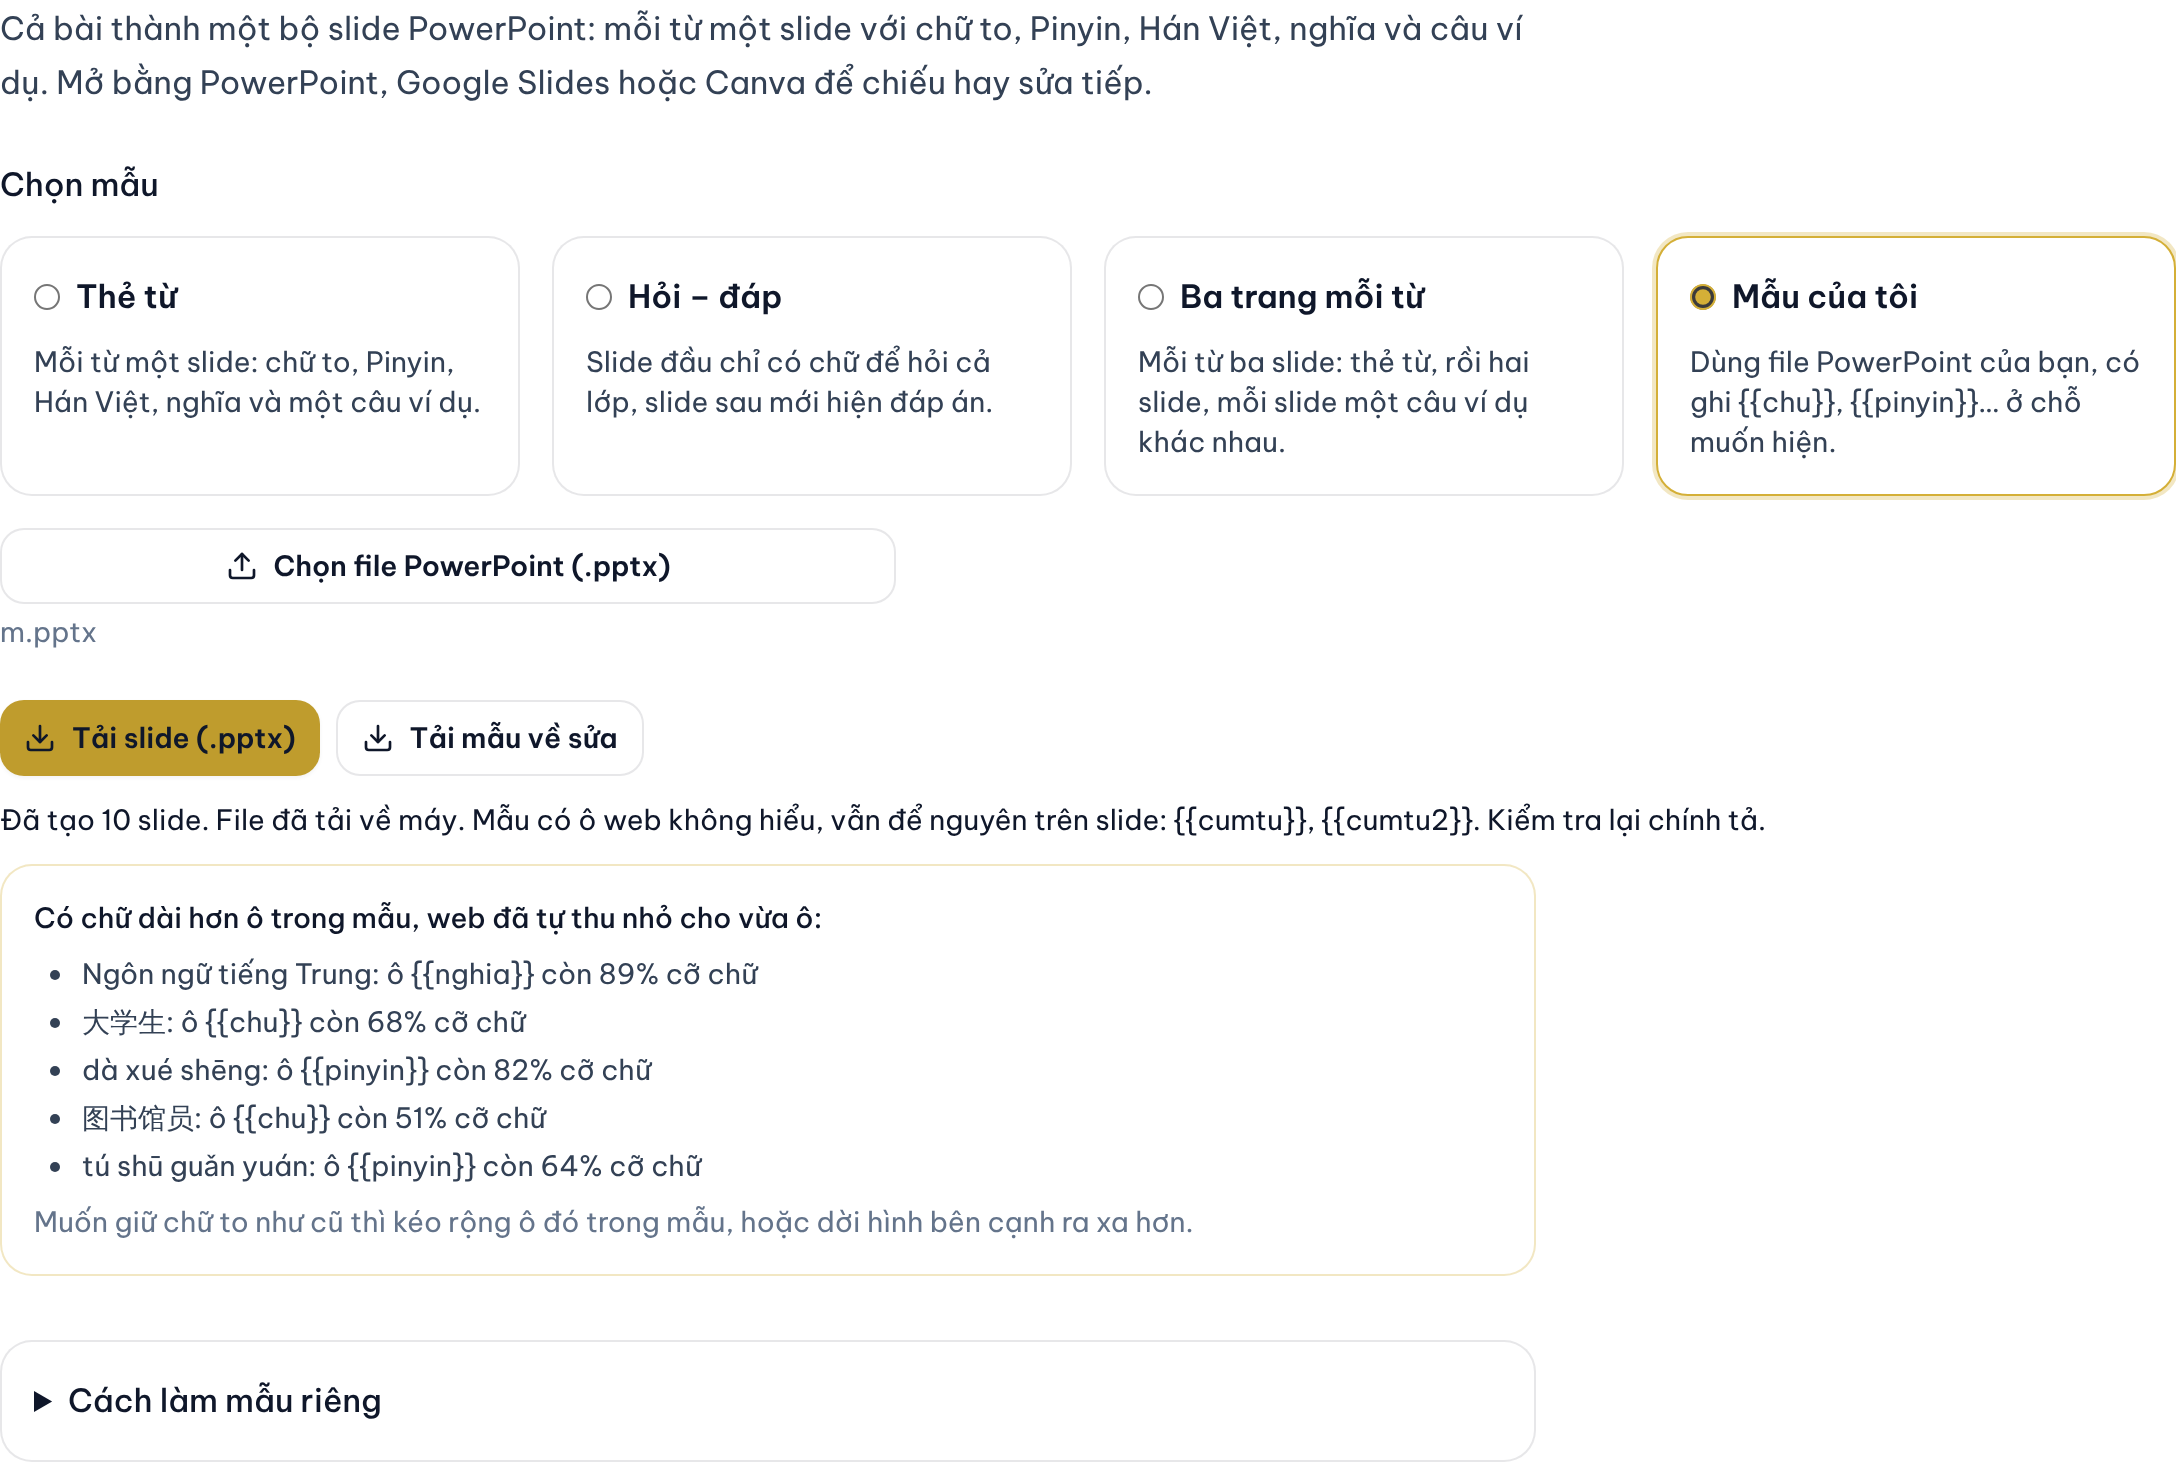
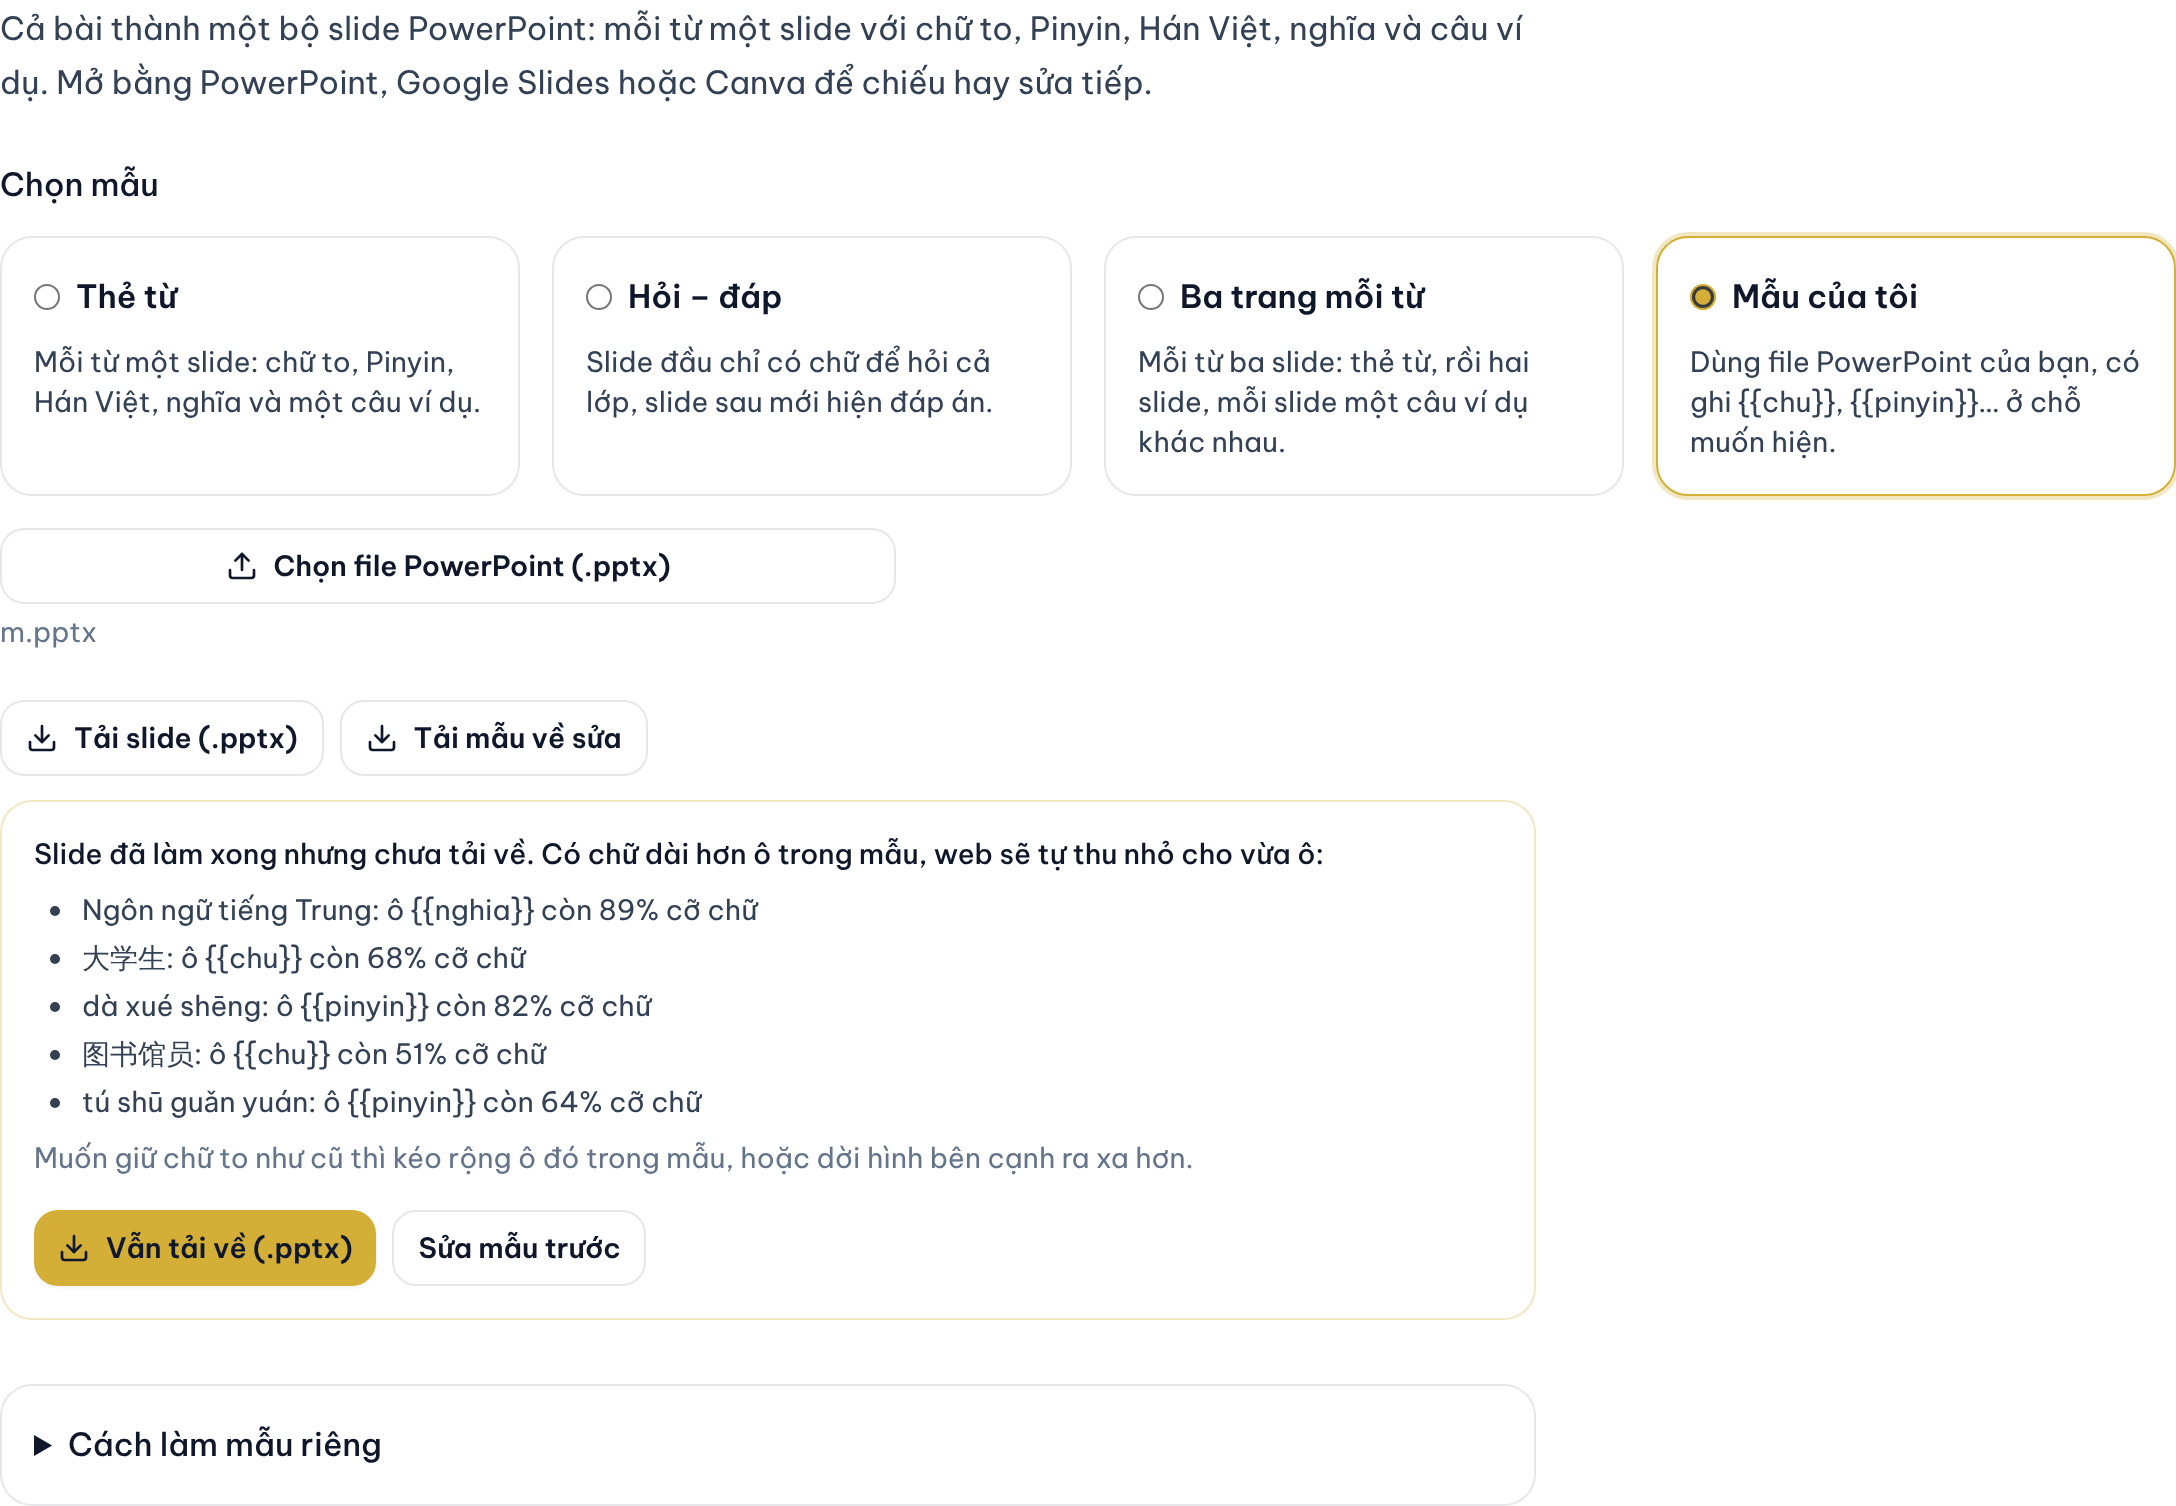
Slide: hiện danh sách chữ bị thu nhỏ trước, bấm "Vẫn tải về" mới tải
Claude-Session: https://claude.ai/code/session_017o6HfnnKNtUcv7VkdLmwa9

diff --git a/components/lesson/SlideMaker.tsx b/components/lesson/SlideMaker.tsx
@@ -1,6 +1,6 @@
 "use client";
 
-import { useState } from "react";
+import { useEffect, useState } from "react";
 
 import { FileInput } from "@/components/FileInput";
 import { DownloadIcon } from "@/components/icons/download";
@@ -53,6 +53,14 @@ export function SlideMaker({
   const [error, setError] = useState("");
   const [done, setDone] = useState("");
   const [fitted, setFitted] = useState<FitNote[]>([]);
+  /** A finished deck held back until the teacher has read the list of shrunk text. */
+  const [pending, setPending] = useState<{ bytes: Uint8Array; slides: number; unknown: string[] } | null>(null);
+
+  // A held deck is for the words and template it was made from.
+  useEffect(() => {
+    setPending(null);
+    setFitted([]);
+  }, [choice, own, words, entries, lessonName]);
 
   async function readOwn(file: File | undefined) {
     setError("");
@@ -107,10 +115,20 @@ export function SlideMaker({
     });
   }
 
+  function save(deck: { bytes: Uint8Array; slides: number; unknown: string[] }) {
+    downloadBytes(deck.bytes, fileName(lessonName), PPTX);
+    setPending(null);
+    setDone(
+      t.done.replace("{n}", String(deck.slides)) +
+        (deck.unknown.length ? " " + t.unknown.replace("{fields}", deck.unknown.map((f) => `{{${f}}}`).join(", ")) : ""),
+    );
+  }
+
   async function make() {
     setError("");
     setDone("");
     setFitted([]);
+    setPending(null);
     if (words.length === 0) return setError(dict.lesson.noWords);
     if (choice === "own" && !own) return setError(t.pickFile);
     setBusy(true);
@@ -120,12 +138,12 @@ export function SlideMaker({
       if (!list) return;
       const res = fillTemplate(template, list, lessonName);
       if (!res.ok) return setError(t.errors[res.error]);
-      downloadBytes(res.bytes, fileName(lessonName), PPTX);
-      setFitted(groupFitted(res.fitted));
-      setDone(
-        t.done.replace("{n}", String(res.slides)) +
-          (res.unknown.length ? " " + t.unknown.replace("{fields}", res.unknown.map((f) => `{{${f}}}`).join(", ")) : ""),
-      );
+      const deck = { bytes: res.bytes, slides: res.slides, unknown: res.unknown };
+      const notes = groupFitted(res.fitted);
+      setFitted(notes);
+      // Text had to be made smaller: show which first, the teacher downloads after reading.
+      if (notes.length > 0) setPending(deck);
+      else save(deck);
     } catch {
       setError(dict.lesson.loadFailed);
     } finally {
@@ -188,7 +206,12 @@ export function SlideMaker({
       )}
 
       <div className="mt-6 flex flex-wrap gap-2">
-        <IconButton icon={DownloadIcon} className="btn-primary px-3 py-2 text-sm" disabled={busy} onClick={() => void make()}>
+        <IconButton
+          icon={DownloadIcon}
+          className={`${pending ? "btn-secondary" : "btn-primary"} px-3 py-2 text-sm`}
+          disabled={busy}
+          onClick={() => void make()}
+        >
           {busy ? t.making : t.make}
         </IconButton>
         <IconButton icon={DownloadIcon} className="btn-secondary px-3 py-2 text-sm" onClick={() => void downloadTemplate()}>
@@ -198,7 +221,7 @@ export function SlideMaker({
       {done && <p className="mt-3 text-sm text-ink-900">{done}</p>}
       {fitted.length > 0 && (
         <div className="mt-3 max-w-3xl rounded-2xl border border-brand-600/30 bg-surface p-4 text-sm">
-          <p className="font-medium text-ink-900">{t.fitted}</p>
+          <p className="font-medium text-ink-900">{pending ? t.fittedAsk : t.fitted}</p>
           <ul className="mt-2 list-disc space-y-1 pl-6 text-ink-700">
             {fitted.map((n) => (
               <li key={`${n.fields.join(",")}:${n.text}`} className={n.overflow ? "text-red-600" : undefined}>
@@ -210,6 +233,23 @@ export function SlideMaker({
             ))}
           </ul>
           <p className="mt-2 text-ink-500">{t.fittedHint}</p>
+          {pending && (
+            <div className="mt-4 flex flex-wrap gap-2">
+              <IconButton icon={DownloadIcon} className="btn-primary px-3 py-2 text-sm" onClick={() => save(pending)}>
+                {t.downloadAnyway}
+              </IconButton>
+              <button
+                type="button"
+                className="btn-secondary px-3 py-2 text-sm"
+                onClick={() => {
+                  setPending(null);
+                  setFitted([]);
+                }}
+              >
+                {t.fixTemplateFirst}
+              </button>
+            </div>
+          )}
         </div>
       )}
       {error && <p className="mt-3 text-sm text-red-600">{error}</p>}

diff --git a/lib/i18n/vi.ts b/lib/i18n/vi.ts
@@ -1580,6 +1580,9 @@ export const vi = {
       done: "Đã tạo {n} slide. File đã tải về máy.",
       unknown: "Mẫu có ô web không hiểu, vẫn để nguyên trên slide: {fields}. Kiểm tra lại chính tả.",
       fitted: "Có chữ dài hơn ô trong mẫu, web đã tự thu nhỏ cho vừa ô:",
+      fittedAsk: "Slide đã làm xong nhưng chưa tải về. Có chữ dài hơn ô trong mẫu, web sẽ tự thu nhỏ cho vừa ô:",
+      downloadAnyway: "Vẫn tải về (.pptx)",
+      fixTemplateFirst: "Sửa mẫu trước",
       fittedItem: "{text}: ô {field} còn {pct}% cỡ chữ",
       overflowItem: "{text}: ô {field} vẫn chật dù đã thu nhỏ còn {pct}%, nên xem lại slide này",
       fittedHint: "Muốn giữ chữ to như cũ thì kéo rộng ô đó trong mẫu, hoặc dời hình bên cạnh ra xa hơn.",

diff --git a/lib/i18n/en.ts b/lib/i18n/en.ts
@@ -1577,6 +1577,9 @@ export const en: Dictionary = {
       done: "Made {n} slides. The file is downloaded.",
       unknown: "The template has fields the site does not know, left as they are: {fields}. Check the spelling.",
       fitted: "Some text is longer than its box in the template, so the site made it smaller to fit:",
+      fittedAsk: "The slides are ready but not downloaded yet. Some text is longer than its box in the template, so the site will make it smaller to fit:",
+      downloadAnyway: "Download anyway (.pptx)",
+      fixTemplateFirst: "Fix the template first",
       fittedItem: "{text}: {field} box at {pct}% size",
       overflowItem: "{text}: the {field} box is still tight at {pct}% size, check this slide",
       fittedHint: "To keep the text at full size, widen that box in the template, or move the picture beside it further away.",

diff --git a/userguide/soan-bai.md b/userguide/soan-bai.md
@@ -73,7 +73,7 @@ Bản có ảnh từng bước: https://han-ngu-studio.vercel.app/guide (cuối 
 
 3. Slide nào có ô của từ sẽ được lặp lại cho từng từ, theo đúng thứ tự (có thể là một nhóm nhiều slide, như mẫu Hỏi – đáp hay Ba trang mỗi từ). Slide khác (bìa, kết) giữ một lần. Mẫu một thẻ từ + hai slide ví dụ thì dùng `{{vidu}}` ở slide ví dụ đầu, `{{vidu2}}` ở slide sau, để hai slide không trùng câu.
 4. Lưu thành .pptx, chọn **Mẫu của tôi** rồi chọn file đó.
-5. Vẽ ô `{{chu}}` đủ rộng cho từ dài nhất (3–4 chữ). Nếu chữ dài hơn ô (hoặc chạm vào hình bên cạnh), web tự thu nhỏ cỡ chữ ở slide đó cho vừa, không để từ bị xuống hàng, rồi hiện danh sách dưới nút tải: "Có chữ dài hơn ô trong mẫu, web đã tự thu nhỏ cho vừa ô:", ví dụ "大学生: ô {{chu}} còn 68% cỡ chữ". Nghĩa và câu ví dụ dài vẫn được xuống hàng nếu ô trong mẫu cao đủ hai dòng.
+5. Vẽ ô `{{chu}}` đủ rộng cho từ dài nhất (3–4 chữ). Nếu chữ dài hơn ô (hoặc chạm vào hình bên cạnh), web tự thu nhỏ cỡ chữ ở slide đó cho vừa, không để từ bị xuống hàng, và **chưa tải về ngay**: web hiện danh sách "Slide đã làm xong nhưng chưa tải về. Có chữ dài hơn ô trong mẫu, web sẽ tự thu nhỏ cho vừa ô:", ví dụ "大学生: ô {{chu}} còn 68% cỡ chữ". Đọc xong thì bấm **Vẫn tải về (.pptx)**, hoặc **Sửa mẫu trước** để sửa ô trong PowerPoint rồi chọn lại file. Không có chữ nào phải thu nhỏ thì file tải về luôn. Nghĩa và câu ví dụ dài vẫn được xuống hàng nếu ô trong mẫu cao đủ hai dòng.
 
 File của bạn chỉ được đọc trên máy, không gửi đi đâu.
 
@@ -93,6 +93,6 @@ File của bạn chỉ được đọc trên máy, không gửi đi đâu.
 | "File này không phải PowerPoint (.pptx)…" | Mẫu đang là .ppt đời cũ, .key hay Google Slides. Mở bằng PowerPoint hoặc Google Slides rồi tải về / lưu thành .pptx. |
 | Nghĩa tiếng Việt bị đưa vào cột Pinyin | Thường do nghĩa viết không dấu và giống pinyin (ví dụ `ba me`). Thêm dấu gạch: `爸妈 bàmā – ba mẹ`, hoặc sửa lại trong bảng từ. |
 | "Mẫu chưa có slide nào ghi {{chu}}…" | Thêm `{{chu}}` (hoặc ô khác của từ) vào slide muốn lặp cho từng từ. |
-| Chữ trên vài slide nhỏ hơn mẫu | Từ hay nghĩa đó dài hơn ô nên web thu nhỏ cho vừa (xem danh sách dưới nút tải). Muốn giữ chữ to thì kéo rộng ô trong mẫu hoặc dời hình bên cạnh ra xa. |
+| Chữ trên vài slide nhỏ hơn mẫu | Từ hay nghĩa đó dài hơn ô nên web thu nhỏ cho vừa (xem danh sách hiện ra trước khi tải). Muốn giữ chữ to thì kéo rộng ô trong mẫu hoặc dời hình bên cạnh ra xa. |
 | "…vẫn chật dù đã thu nhỏ còn 40%…" | Chữ quá dài so với ô, web đã thu tới mức nhỏ nhất. Mở slide đó sửa tay, hoặc làm ô rộng hơn trong mẫu. Web chỉ ước lượng bề rộng chữ (không có phông thật của PowerPoint), nên vẫn nên xem lại slide trong danh sách. |
 | "Mẫu có ô web không hiểu…" | Ô bị gõ sai chính tả, ví dụ `{{hanvet}}`. Sửa theo bảng ô ở trên. |
